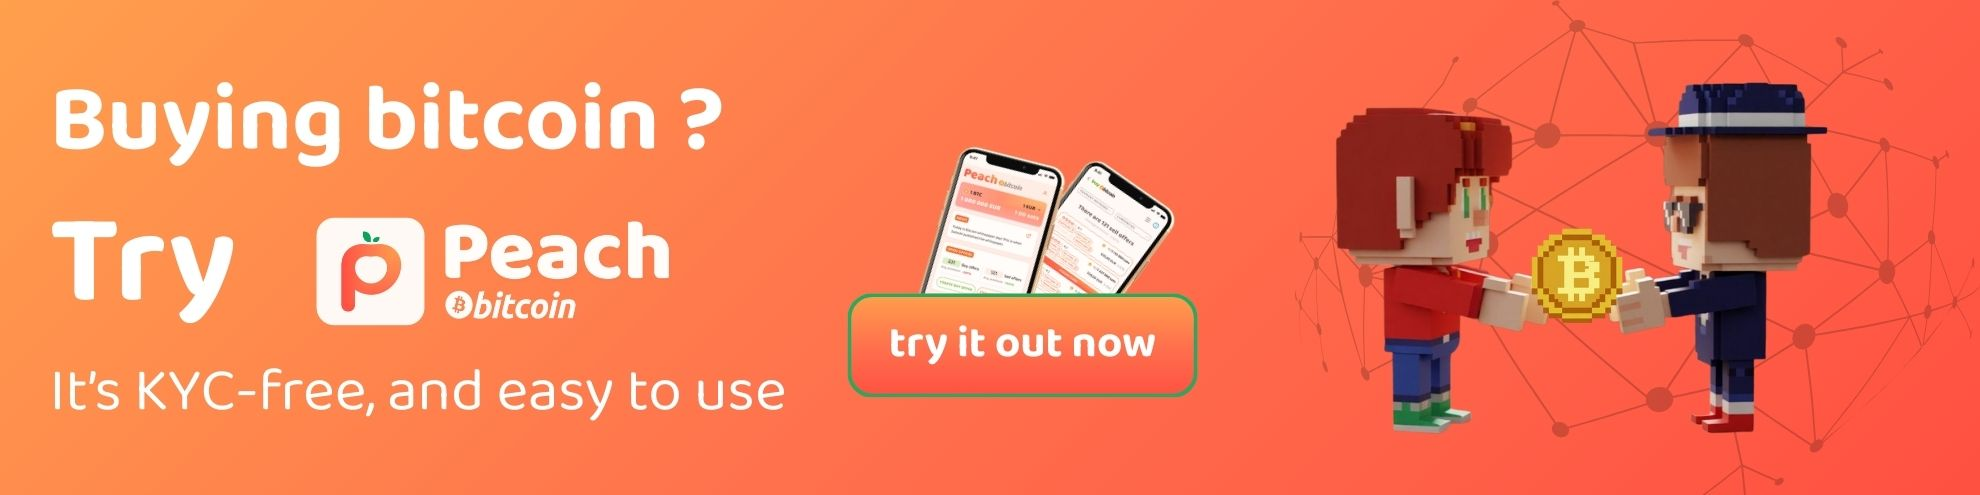
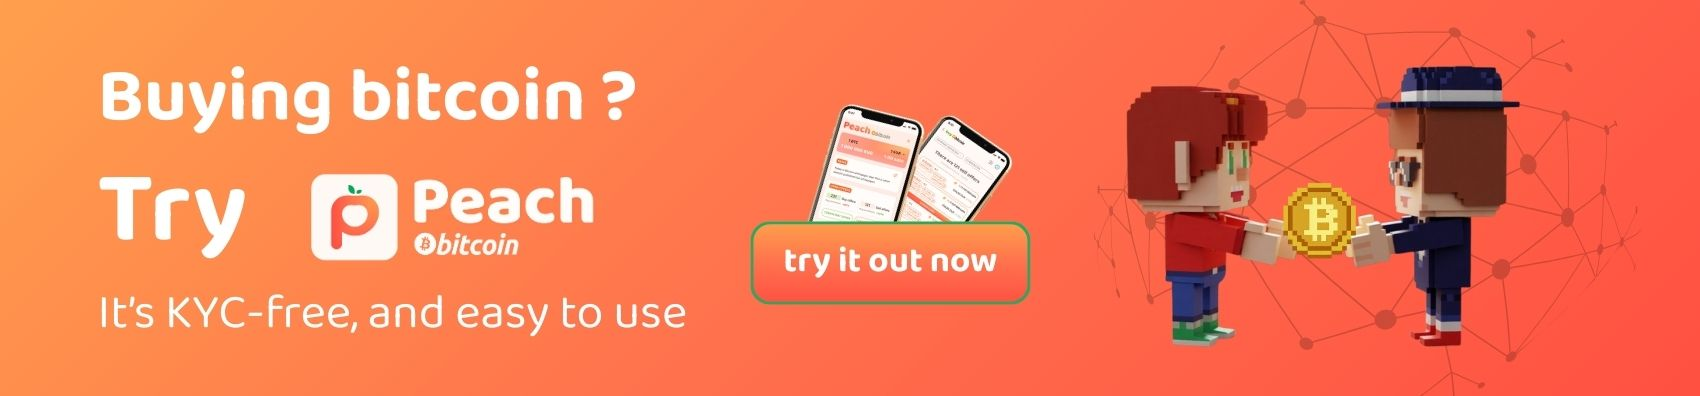
Added blog and improved rendering

diff --git a/content/default/blog/2026-01-29-you-need-a-hw.md b/content/default/blog/2026-01-29-you-need-a-hw.md
@@ -1,0 +1,112 @@
+---
+keywords:
+  - Peach bitcoin P2P marketplace
+  - Self-custody
+  - Hot wallets
+  - Cold wallet
+  - Cold storage
+  - Hardware wallets
+  - personal security
+  - sovereignty
+  - wrench attacks
+  - p2p
+  - digital security
+  - Peach Bitcoin app
+  - Peach wallet
+  - Self-custodial Bitcoin
+  - No-KYC Bitcoin
+
+
+tags:
+  - Blog
+  - security
+previewImage: /img/blog/you-need-a-hardware-wallet/you-need-hw-preview.png
+---
+
+# You Need a Hardware Wallet
+29-01-2026
+
+## Main Takeaways
+
+- Peach Bitcoin is the easiest peer-to-peer (P2P) marketplaces, and it has an integrated hot wallet which is a convenient tool to perform trades.
+- Use it for what its for, but don't accumulate large amounts in it.
+- Get yourself a hardware wallet to accumulate your stack safely.
+
+
+<br><br>
+   <img src="/img/blog/you-need-a-hardware-wallet/you-need-hw.png" alt="Serious funds, serious security" style="display:block; margin: auto; width: 70%;">
+<br><br>
+
+
+You've been using Peach, stacking sats like a religious madman ? If you're remotely close to having used 10% of the $100k yearly no-KYC limit that Peach offers, there's something you need to use: cold storage. Hot wallets are not secure enough for your funds. You need to buy a hardware wallet, use a passphrase, and have a plan to store your seed phrase.
+
+## Know the difference between hot and cold
+
+A hot wallet is similar to what you carry in your pocket, it’s connected to the internet through your phone or computer. Convenient for spending and quick trades, but it's also very "close" to the internet jungle, where online thieves and malware are common.
+
+A cold wallet, on the other hand, is like a heavy-duty safe buried in your backyard. It lives offline, detached from the internet and hackers and digital pickpockets. While it takes a bit more effort to access that vault when you want to move your funds, it is a much safer way to guarantee that your savings stay exactly where you put them.
+
+(Not even going to discuss custodial exchanges, they are not worthy of being mentionned. Not Your Keys, Not Your Coins).
+
+Peach, being entirely on your phone, is a hot wallet. While it is designed properly so as to safeguard your funds (if you know what you are doing, have zero worries), it is also designed for ease of use in a **marketplace**, to make it **easy** to spend. So don't store your multi-generational wealth in it, especially if you are relatively new to the concept of individual digital security (see our short blog on this).
+
+
+## The Hardware Wallet Solution
+
+That's what you need if you have any amount in Bitcoin that you care enough about.
+
+A hardware wallet is a dedicated device that keeps your private keys completely isolated from the internet. Even if your computer or mobile is riddled with malware, the malware shouldn't be able to reach the keys inside the device. When you want to make a transaction, the hardware wallet verifies the details on its own secure screen and signs the transaction internally. An unavoidable tool for all respectable Bitcoiners.
+
+If your stack is growing large, keep learning about bitcoin and digital security.
+
+### Here's your Security Checklist
+
+- **Buy the device discretely** (see [ledger leaks](https://www.twingate.com/blog/tips/ledger-data-breach), you don't want your home address out-there, linked to bitcoin ownership). Either use another address than your own, buy it for cash from an official reseller, at a conference, or even at your local meetup (make sure the box is scealed and un-tampered with). Otherwise, buy one from a trusted manufacturer like [Trezor](trezor.io) or [Bitbox](bitbox.swiss) (we are not affiliated, but we deeply love and respect them).
+
+- **Set it up properly**, follow all the instructions that the manufacturer gives you (write the seed on paper and maybe metal, **don't take pictures**, don't say the words out-loud, cover your camera, etc.)
+
+- Eventually, **[use a Passphrase](https://blog.bitbox.swiss/en/optional-passphrases-benefits-and-risks/)**: Add an extra "25th word" or passphrase to your wallet to add an invisible layer of security. If someone steals your hardware or finds your backup, they cannot access your funds without this specific password. **Remember to backup and store this passphrase separately from your seed.**
+
+- **Don't talk about it**. Be smart, unless its a highly trusted relative that needs to know. Have a Plan: Decide where you will store that backup. It needs to be safe from fire, water, and theft, but also accessible to you (or your loved ones) in an emergency. We reccomend [Pamela Morgan's book](https://www.amazon.com/Cryptoasset-Inheritance-Planning-Simple-Owners/dp/1947910116) on the topic of inheritance.
+Don't wait until it's too late.
+
+## Peach's hot wallet best usage
+
+Before you get to Cold Storage, you still need to buy your coins. Peach wallet was built to interact with the P2P market easily. At has some useful (and classic) privacy features like
+- HD derivation
+- address re-use avoidance
+- coin-control
+- address checker ("is this my address?")
+- fund escrow from Peach Wallet (including multiple)
+
+You could avoid using Peach's wallet entirely, if you wish. But it would a slightly different & lengthy process if they want to avoid address re-use (recommended):
+- Sellers would have to provide a new refund address after each refund
+- Buyers would have to sign the ownership of an external address for each new trade, which is not always doable depending on the wallet you use.
+
+## The flow we reccomend
+
+### Sellers : 
+
+**Fund the escrow straight from your external wallet** UNLESS you want to publish many sell offers. The Peach wallet comes-in very handy. It will allow you to fund mulitple escrows without having to copy-paste and or scan multiple times. Send the full amount to your Peach wallet, create your multiple offers, hit "fund from peach wallet" et voilà.
+
+Time saved = high.
+
+By the way, **you can fund your own sell offers with a different amount than expected** by the wallet, but you CANNOT do that for offers you take from buyers. You will have to fund the exact amount.
+
+### Buyers :
+
+You can [sign the ownership of an external address with Sparrow](https://www.youtube.com/watch?v=rwNmPxBWQ6k), but its a hassle. Why not **buy into your Peach wallet**? Send these precious sats into cold storage when you deem it necessary, or when the mining fees are low.
+
+Happy stacking !
+
+
+
+*And remember to coinjoin before spending ! :)*
+
+
+ <br><br>
+<a href="https://peachbitcoin.com/index.html"><img src="/img/blog/all-you-need-to-know-Escrow-Dispute/hook1.jpg" alt="Try the Peach Bitcoin App Now" style="display:block; margin: auto; width: 90%;"></a>
+<br><br>
+
+In case you have any questions about Peach or bitcoin security, don't hesitate to reach-out through [Telegram](https://t.me/peachtopeach) (and beware of impersonators, admins will never dm you first).
+
